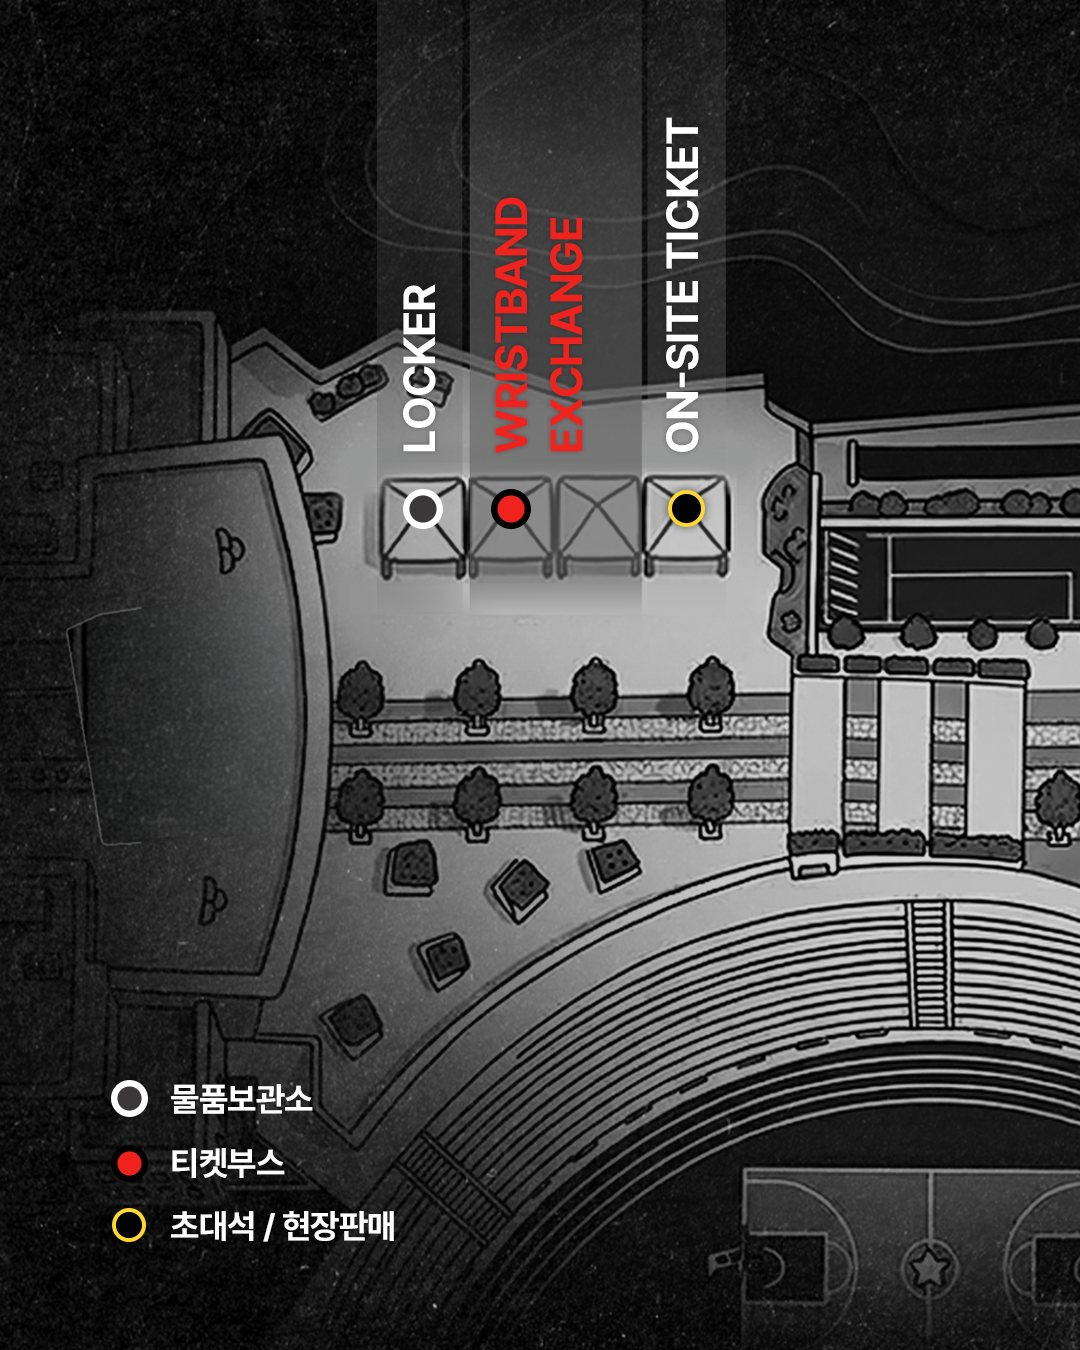
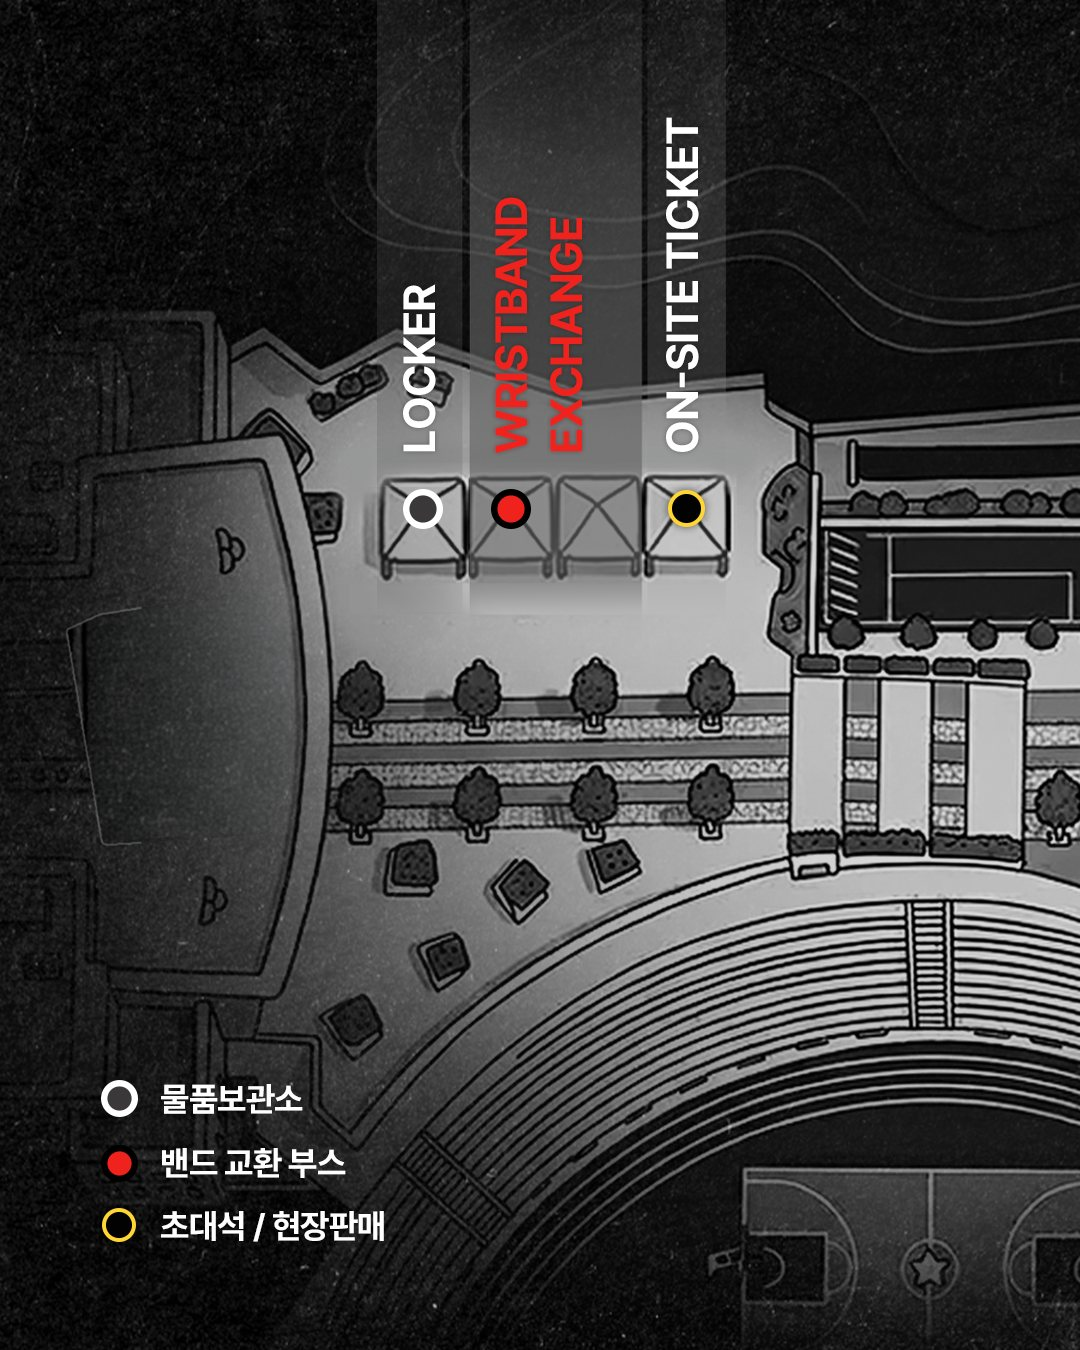
HEARTBEAT site map: updated carousel slides (band exchange booth, ADIDAS VIBES, F&B DRINKS)
Claude-Session: https://claude.ai/code/session_013oSDXvmgYoZt2EAcoYnXYj

Changed region(s): [[0.0917, 0.7778, 0.3667, 0.9333]]

diff --git a/index.html b/index.html
@@ -4440,11 +4440,11 @@
       '<div class="cosmos-head">' +
         '<div class="cosmos-eyebrow">Promotion · Instagram Carousel</div>' +
         '<h3 class="cosmos-title">SITE MAP</h3>' +
-        '<p class="cosmos-copy">관객이 행사장 안의 부스 위치를 미리 확인할 수 있도록 만든 인스타그램 캐러셀 게시물입니다. 표지에서는 전체 맵을 한눈에 보여주고, 2·3번 장은 한 장의 맵을 둘로 나눠 넘기면 그대로 이어지도록 구성했습니다. 물품보관소·티켓부스·초대석/현장판매, 셔틀버스·MD·아디다스 바이브·F&amp;B·워터바 위치를 컬러 포인트로 구분했습니다.</p>' +
+        '<p class="cosmos-copy">관객이 행사장 안의 부스 위치를 미리 확인할 수 있도록 만든 인스타그램 캐러셀 게시물입니다. 표지에서는 전체 맵을 한눈에 보여주고, 2·3번 장은 한 장의 맵을 둘로 나눠 넘기면 그대로 이어지도록 구성했습니다. 물품보관소·밴드 교환 부스·초대석/현장판매, 셔틀버스·MD·아디다스 바이브·F&amp;B 음료·워터바·F&amp;B 위치를 컬러 포인트로 구분했습니다.</p>' +
       '</div>' +
       '<div class="hbsm">' +
-        '<figure class="hbsm-cover"><img src="' + HB + 'hb-sitemap-01.jpg" alt="HEARTBEAT SITE MAP 캐러셀 표지 — 전체 행사장 맵" loading="lazy" decoding="async"><figcaption><b>01 · COVER</b>전체 맵을 한눈에</figcaption></figure>' +
-        '<figure class="hbsm-pan"><div class="hbsm-pair"><img src="' + HB + 'hb-sitemap-02.jpg" alt="SITE MAP 2장 — 물품보관소·티켓부스·초대석/현장판매" loading="lazy" decoding="async"><img src="' + HB + 'hb-sitemap-03.jpg" alt="SITE MAP 3장 — 셔틀버스·MD·아디다스 바이브·F&amp;B·워터바" loading="lazy" decoding="async"><span class="hbsm-seam" aria-hidden="true"><i>SWIPE</i></span></div><figcaption><b>02 → 03 · SEAMLESS</b>넘기면 한 장으로 이어지는 상세 맵</figcaption></figure>' +
+        '<figure class="hbsm-cover"><img src="' + HB + 'hb-sitemap-01.jpg?v=2" alt="HEARTBEAT SITE MAP 캐러셀 표지 — 전체 행사장 맵" loading="lazy" decoding="async"><figcaption><b>01 · COVER</b>전체 맵을 한눈에</figcaption></figure>' +
+        '<figure class="hbsm-pan"><div class="hbsm-pair"><img src="' + HB + 'hb-sitemap-02.jpg?v=2" alt="SITE MAP 2장 — 물품보관소·밴드 교환 부스·초대석/현장판매" loading="lazy" decoding="async"><img src="' + HB + 'hb-sitemap-03.jpg?v=2" alt="SITE MAP 3장 — 셔틀버스·MD·아디다스 바이브·F&amp;B 음료·워터바·F&amp;B" loading="lazy" decoding="async"><span class="hbsm-seam" aria-hidden="true"><i>SWIPE</i></span></div><figcaption><b>02 → 03 · SEAMLESS</b>넘기면 한 장으로 이어지는 상세 맵</figcaption></figure>' +
       '</div>' +
     '</div>'
   };
